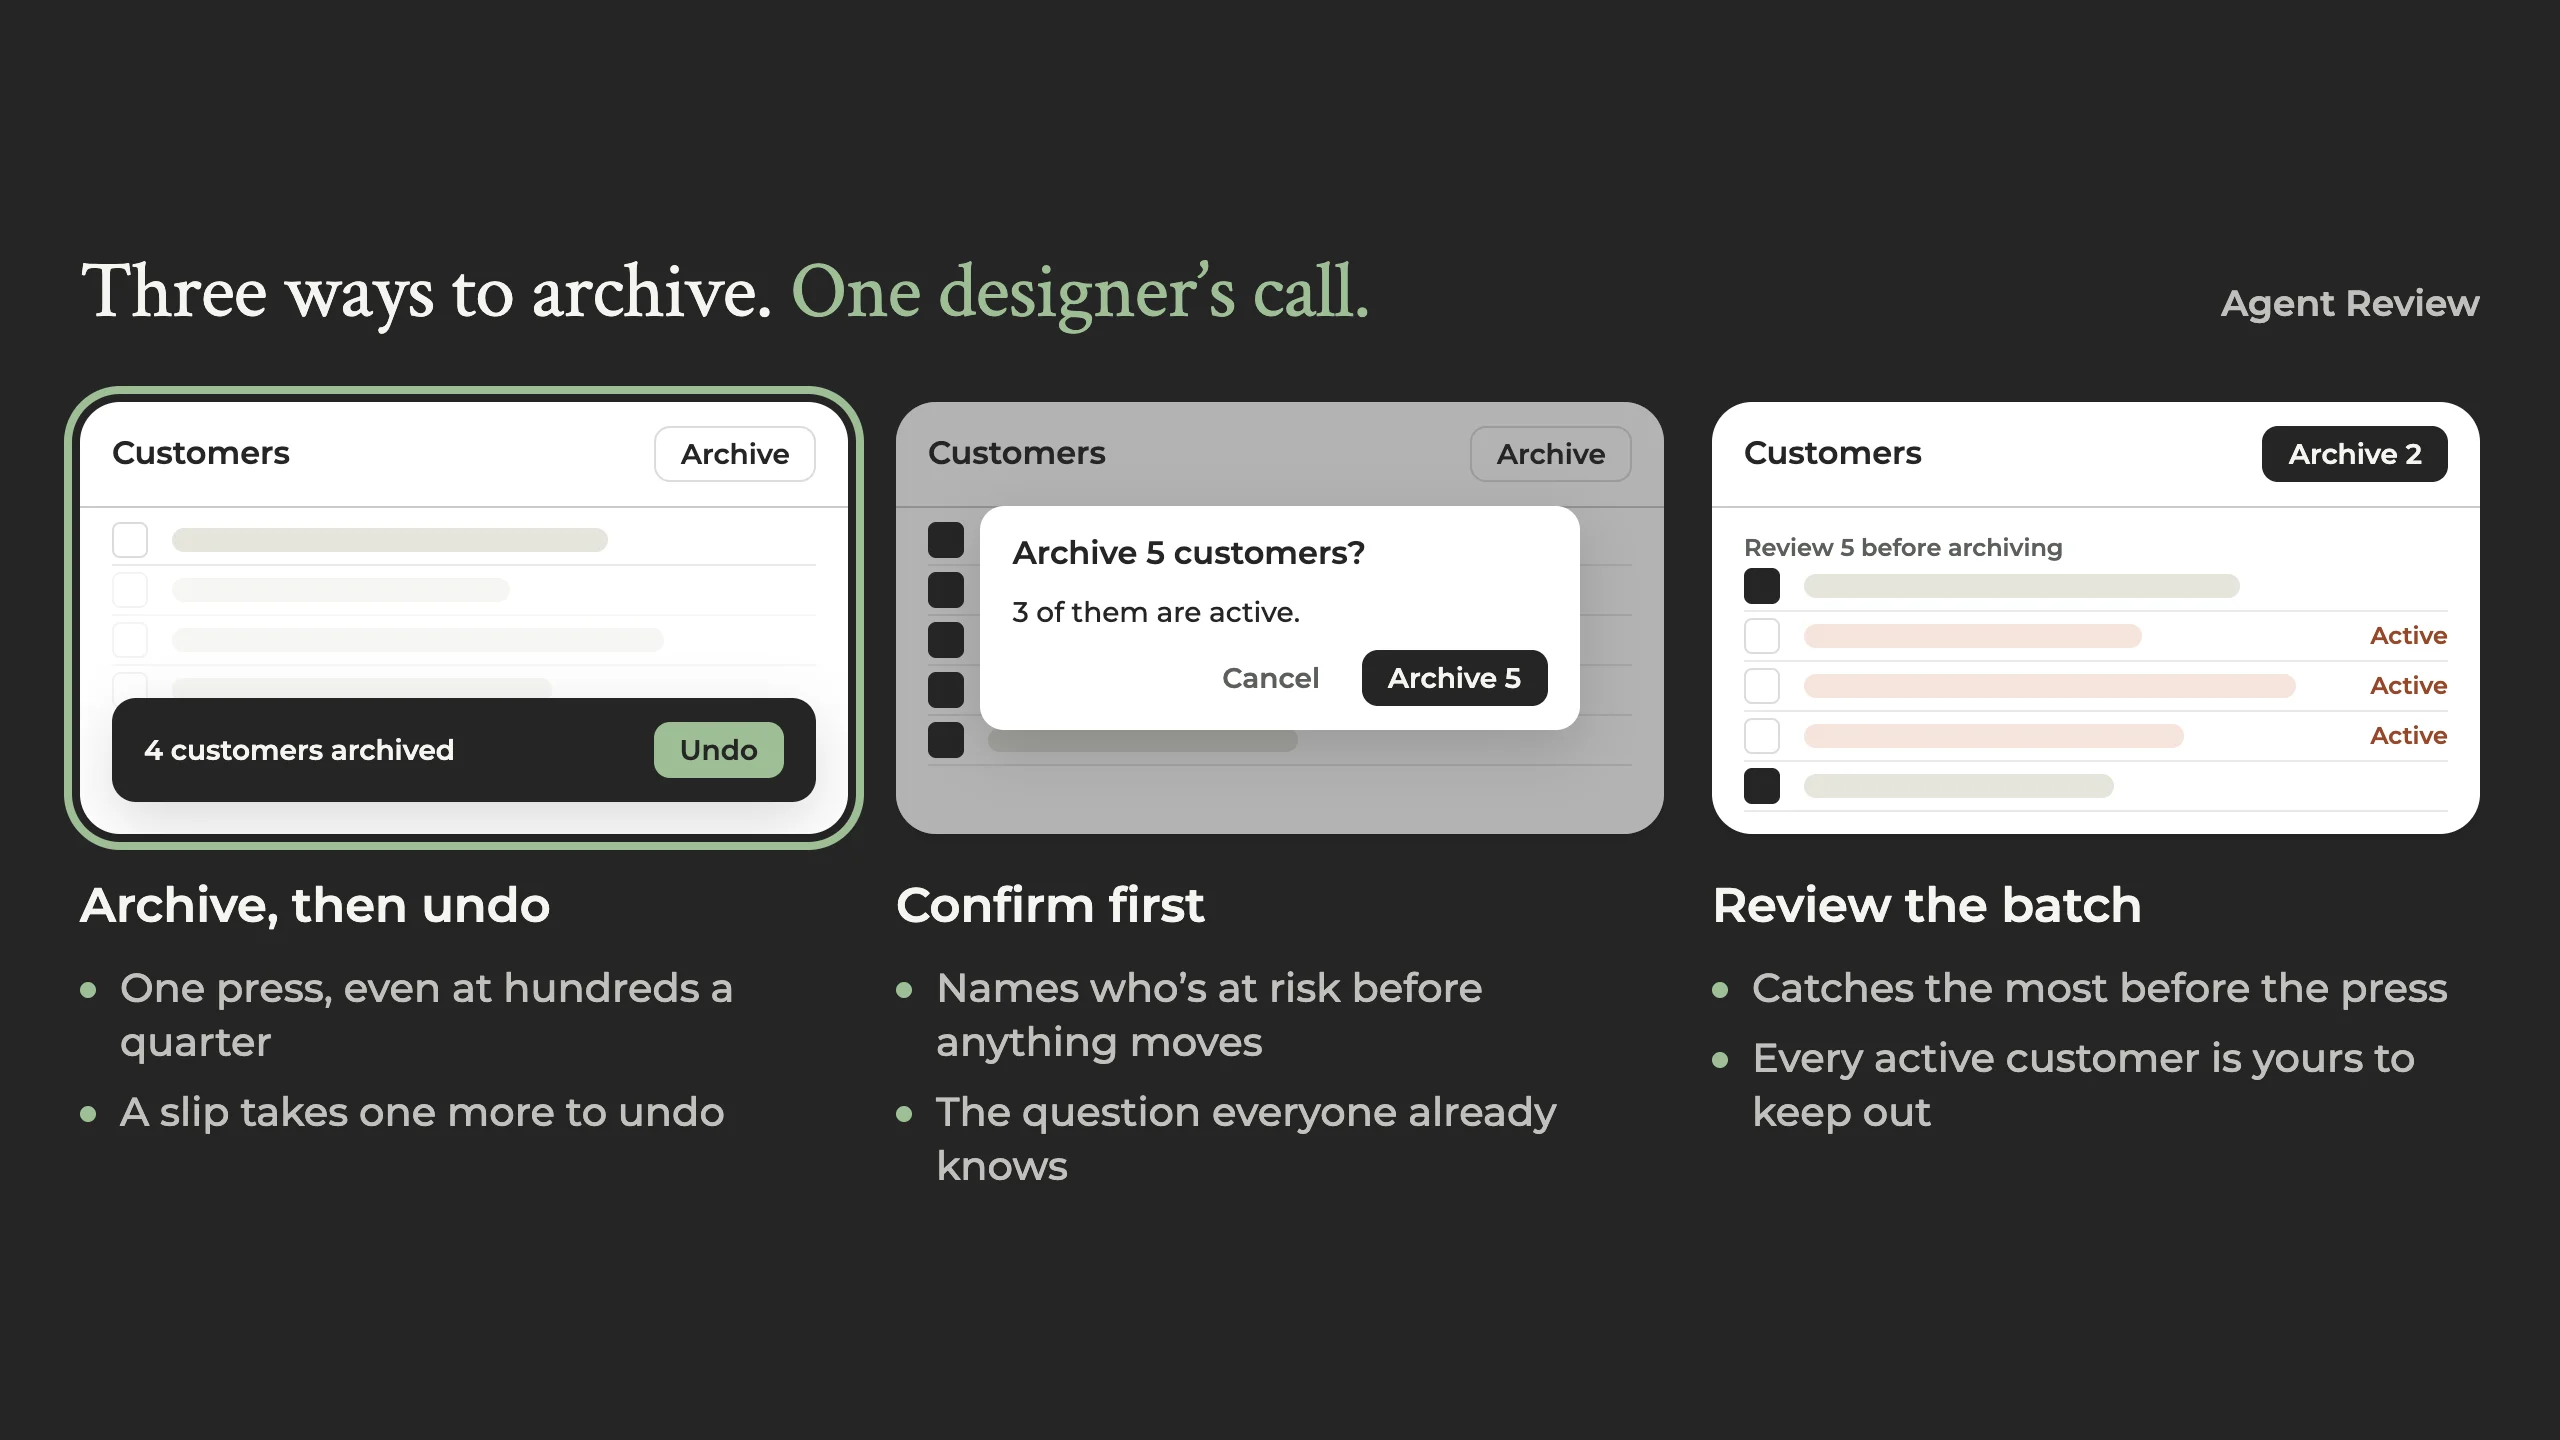
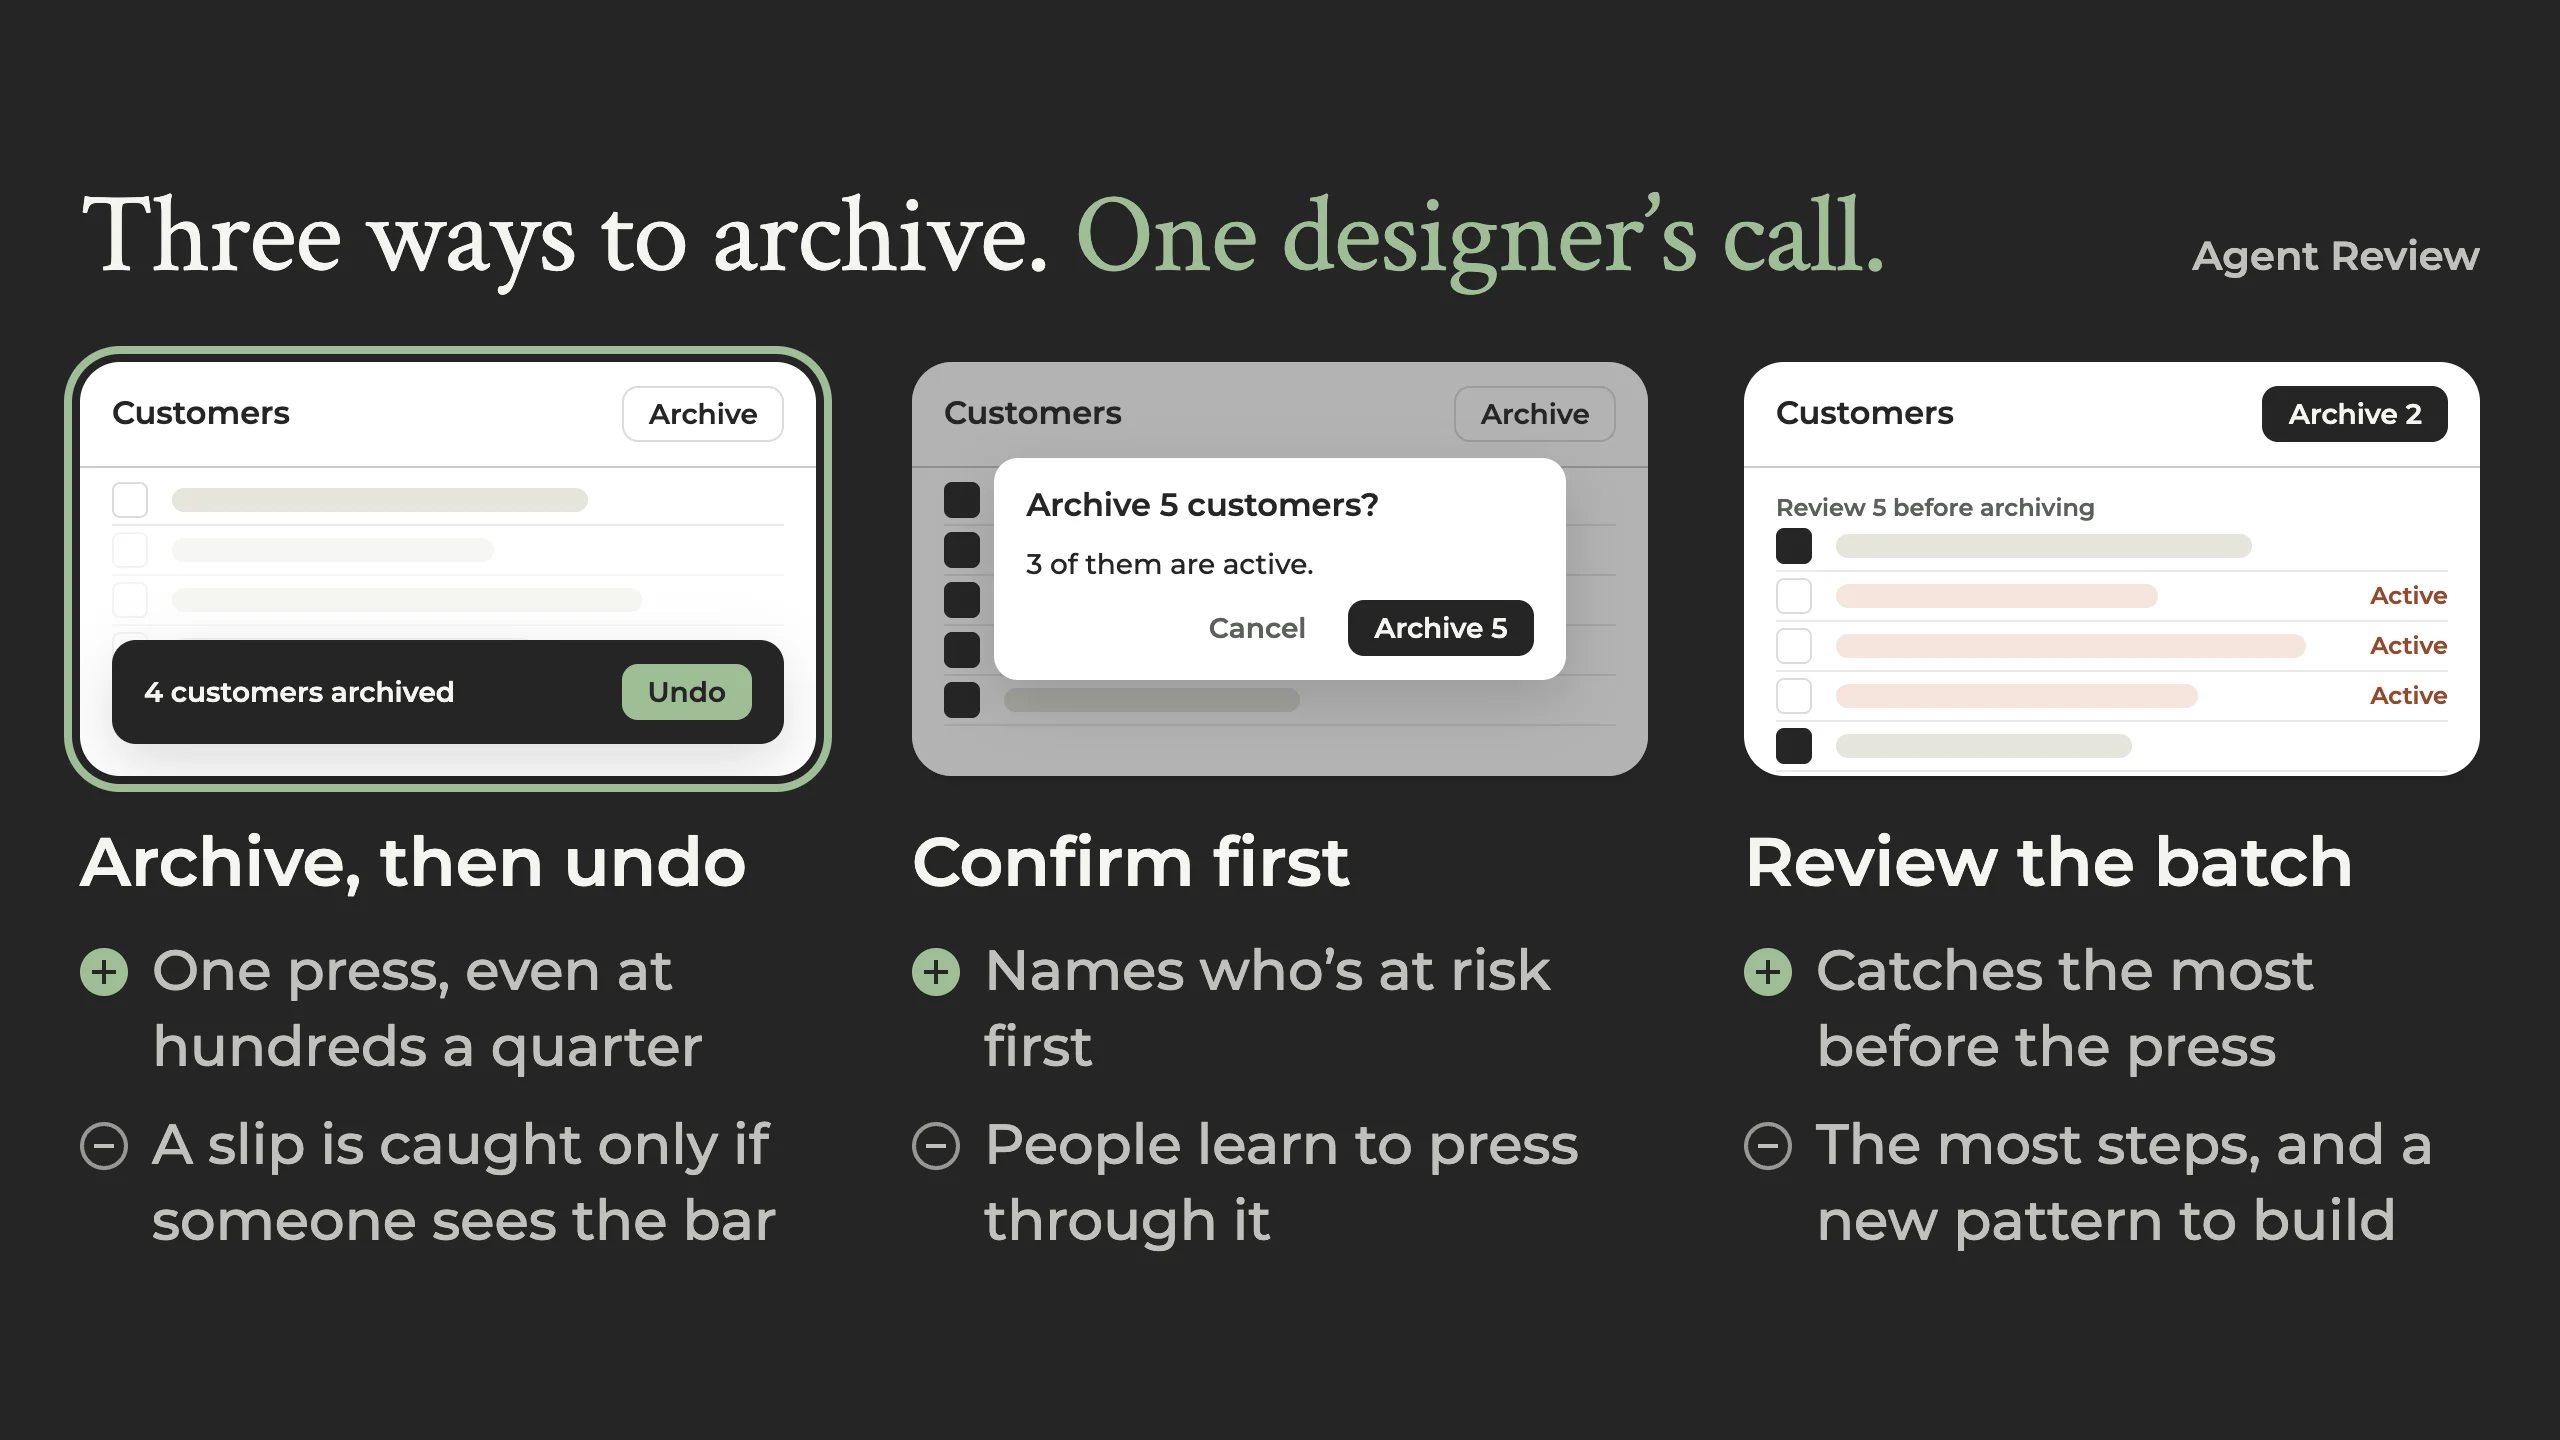
The Agent Review card fills its frame and says what each way gains and costs: the screens stay 16:9, the title is 56px, each name 34px, and the two bullets under it are a sage + for what it gains and a ringed − for what it costs (the cost from the case study's Explore notes), at 28px, with 48px betw

Changed region(s): [[0.0, 0.125, 0.9688, 0.875], [0.8438, 0.1562, 0.9688, 0.2188]]

diff --git a/lab/agent-review.html b/lab/agent-review.html
@@ -19,7 +19,7 @@
   <meta property="og:url" content="https://adamhickey.com/lab/agent-review.html" />
   <meta property="og:title" content="Agent Review: Where Design Judgment Goes When Coding Agents Join the Team | Adam Hickey" />
   <meta property="og:description" content="A case study in product design when AI coding agents do the building. Agent Review is an interactive prototype that follows one feature through discovery, the brief, three working design directions, evaluation, delegation to an agent and what to measure, and shows where the agent should stop for a person. Simulated scenarios, grown out of a real experiment: two Claude Code runs inside a React component system, with twelve design rules and without." />
-  <meta property="og:image" content="https://adamhickey.com/img/og/agent-review.jpg?v=21" />
+  <meta property="og:image" content="https://adamhickey.com/img/og/agent-review.jpg?v=22" />
   <meta property="og:image:width" content="1200" />
   <meta property="og:image:height" content="630" />
   <meta name="twitter:card" content="summary_large_image" />
@@ -37,7 +37,7 @@
           "description": "A case study in product design when AI coding agents do the building. Agent Review is an interactive prototype that follows one feature through discovery, the brief, three working design directions, evaluation, delegation to an agent and what to measure, and shows where the agent should stop for a person. Simulated scenarios, grown out of a real experiment: two Claude Code runs inside a React component system, with twelve design rules and without.",
           "url": "https://adamhickey.com/lab/agent-review.html",
           "mainEntityOfPage": "https://adamhickey.com/lab/agent-review.html",
-          "image": "https://adamhickey.com/img/og/agent-review.jpg?v=21",
+          "image": "https://adamhickey.com/img/og/agent-review.jpg?v=22",
           "datePublished": "2026-10-01",
           "dateModified": "2026-10-26",
           "author": {

diff --git a/lab/index.html b/lab/index.html
@@ -289,7 +289,7 @@
           </li>
           <li class="writing-item">
             <a class="writing-link" href="agent-review.html">
-              <img class="writing-card" src="../img/lab/agent-review-cycle-card.webp?v=5" width="1280" height="720" alt="" decoding="async" />
+              <img class="writing-card" src="../img/lab/agent-review-cycle-card.webp?v=6" width="1280" height="720" alt="" decoding="async" />
               <div class="writing-text">
                 <h3 class="writing-title">Agent Review: design judgment when agents join the team</h3>
                 <p class="writing-dek">A prototype that follows one feature from a support ticket to what ships, with a coding agent doing the building. Its scenarios are simulated.</p>

diff --git a/index.html b/index.html
@@ -904,7 +904,7 @@
               </p>
             </div>
             <a class="case-thumb" href="lab/agent-review.html" aria-label="Read the Agent Review case study: three ways to archive, one designer&rsquo;s call">
-              <img src="img/lab/agent-review-cycle-card.webp?v=5" width="2560" height="1440" alt="" loading="lazy" decoding="async" />
+              <img src="img/lab/agent-review-cycle-card.webp?v=6" width="2560" height="1440" alt="" loading="lazy" decoding="async" />
             </a>
           </div>
         </div>
